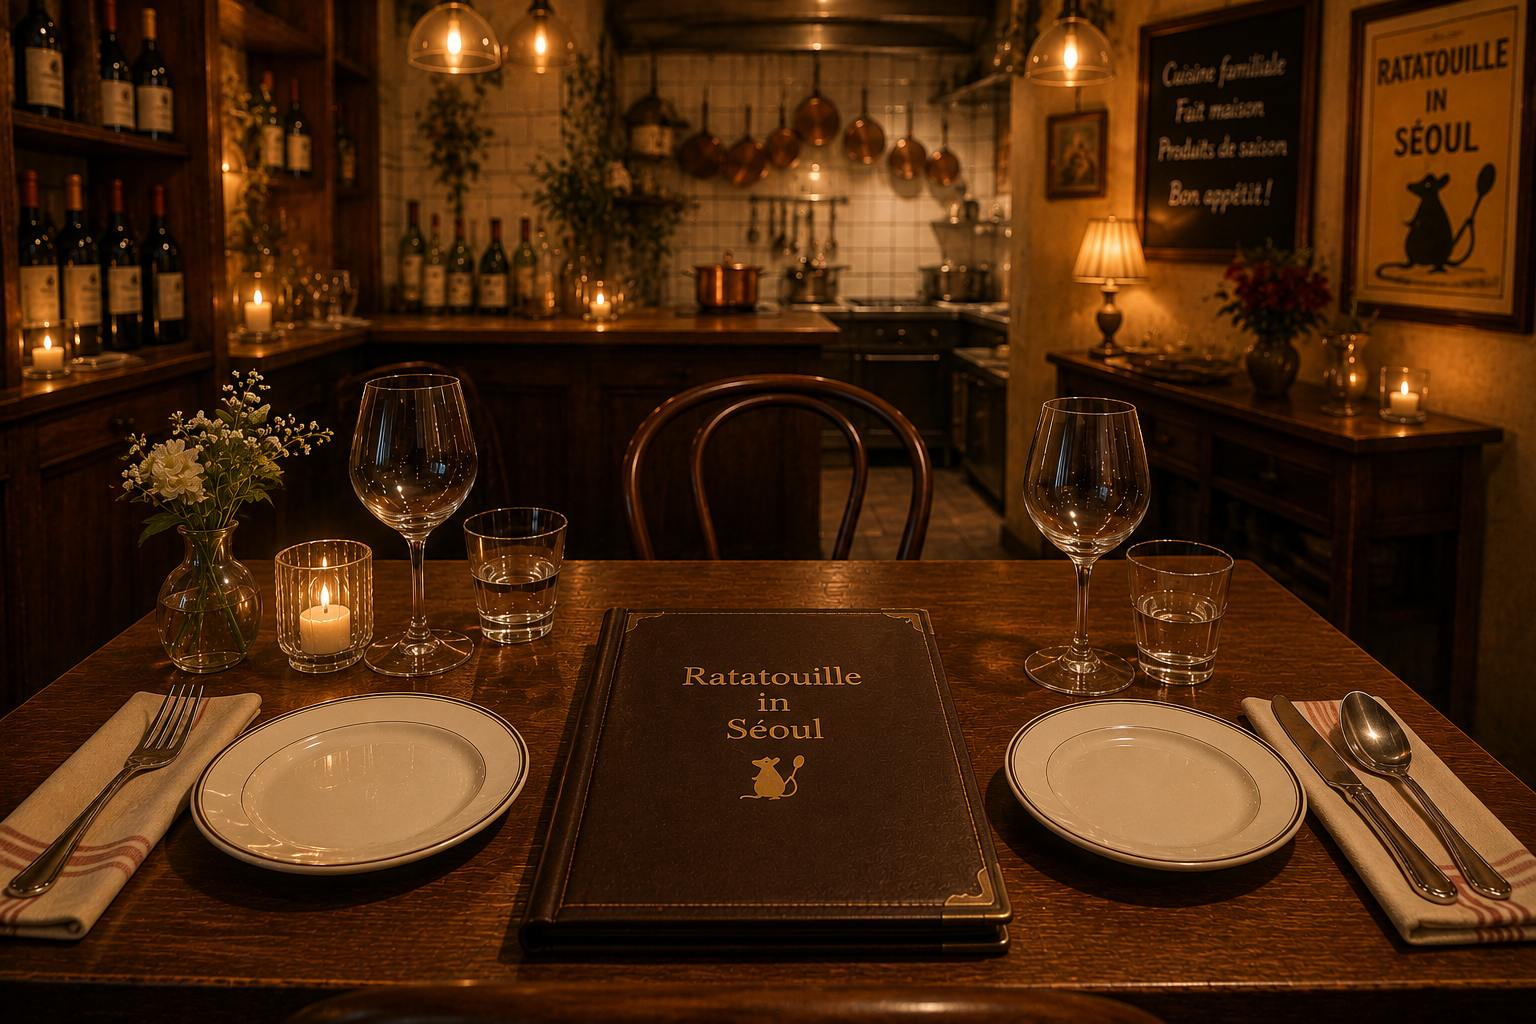
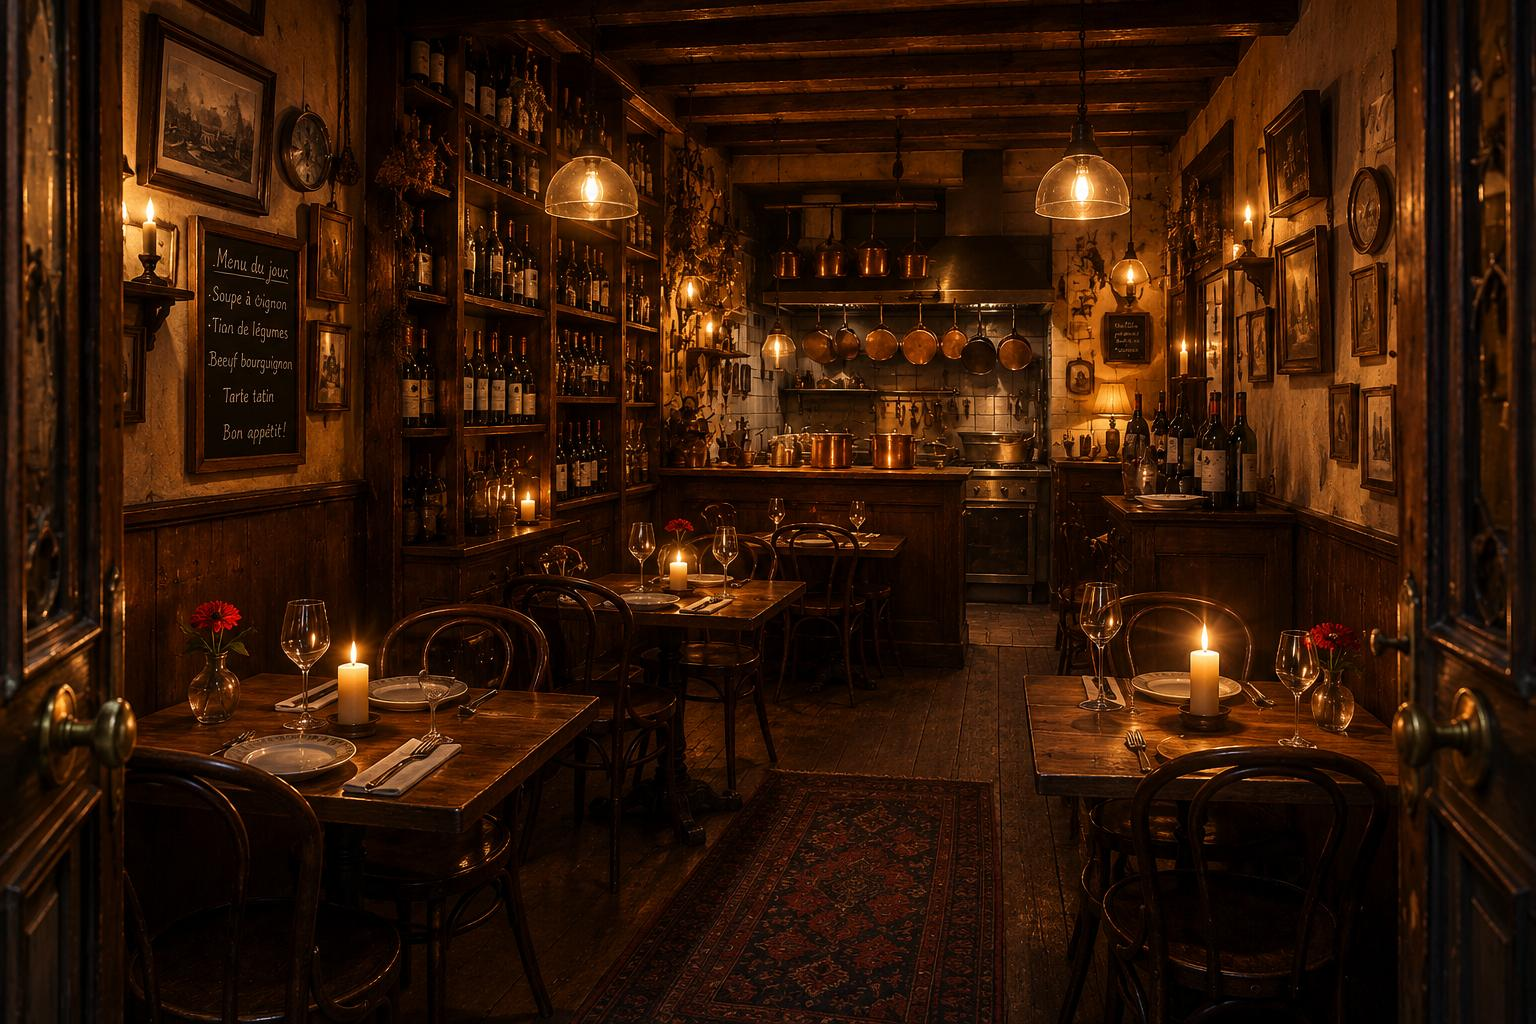
새 브랜드 파사드와 새 홀 전경 이미지 적용
- 문 장면 배경을 간판이 새겨진 새 파사드(1254x1254)로 교체,
  문 스프라이트와 줌 좌표를 새 문 위치에 맞게 재정렬
- interior.jpg를 예전 폴더의 최신 버전(홀 전경)으로 갱신 —
  마르셀 인사 장면과 문 열림 시 보이는 실내에 함께 적용

diff --git a/styles/door.css b/styles/door.css
@@ -12,18 +12,18 @@
 .facade-stage {
   position: absolute;
   left: 50%;
-  top: 50%;
-  width: max(100vw, 177.7vh); /* 1672/941 ≈ 1.777 */
-  aspect-ratio: 1672 / 941;
-  transform: translate(-50%, -50%) scale(1);
-  transform-origin: 50.4% 64%; /* 문의 중심을 향해 줌 */
+  bottom: -4%; /* 문이 아래쪽에 있어 바닥 기준으로 정렬 (넓은 화면에서는 위 간판이 잘립니다) */
+  width: max(100vw, 100vh); /* 원본 1254×1254 정사각형 */
+  aspect-ratio: 1 / 1;
+  transform: translateX(-50%) scale(1);
+  transform-origin: 50.4% 71%; /* 문의 중심을 향해 줌 */
   transition: transform 2s cubic-bezier(0.55, 0, 0.3, 1);
 }
 
 .door-scene--closed .facade-stage,
 .door-scene--half .facade-stage,
 .door-scene--open .facade-stage {
-  transform: translate(-50%, -50%) scale(2.3);
+  transform: translateX(-50%) scale(2.6);
 }
 
 .facade-stage__img {
@@ -37,10 +37,10 @@
    종은 문틀 밖에 있어 잘라내고 문틀만 보여줍니다. */
 .facade-stage__door {
   position: absolute;
-  left: 40.2%;
-  top: 33.8%;
-  width: 20.9%;
-  height: 60.8%;
+  left: 39.8%;
+  top: 53%;
+  width: 21.2%;
+  height: 36.6%;
   background-image: url("/images/bg/door-sprite.png");
   background-size: 400% auto;
   background-position: 5.56% 33%;
@@ -59,11 +59,11 @@
 /* 문 뒤의 실내 — 문이 열리면 투명한 부분으로 비칩니다 */
 .facade-stage__interior {
   position: absolute;
-  left: 41%;
-  top: 34.5%;
-  width: 19.3%;
-  height: 59%;
-  background: url("/images/bg/interior.jpg") center 30% / 190% no-repeat;
+  left: 40.6%;
+  top: 54%;
+  width: 19.6%;
+  height: 35%;
+  background: url("/images/bg/interior.jpg") center 40% / 240% no-repeat;
   border-radius: 44% 44% 4px 4px / 26% 26% 4px 4px;
   filter: brightness(0.55) saturate(0.9);
   transition: filter 1.2s ease;